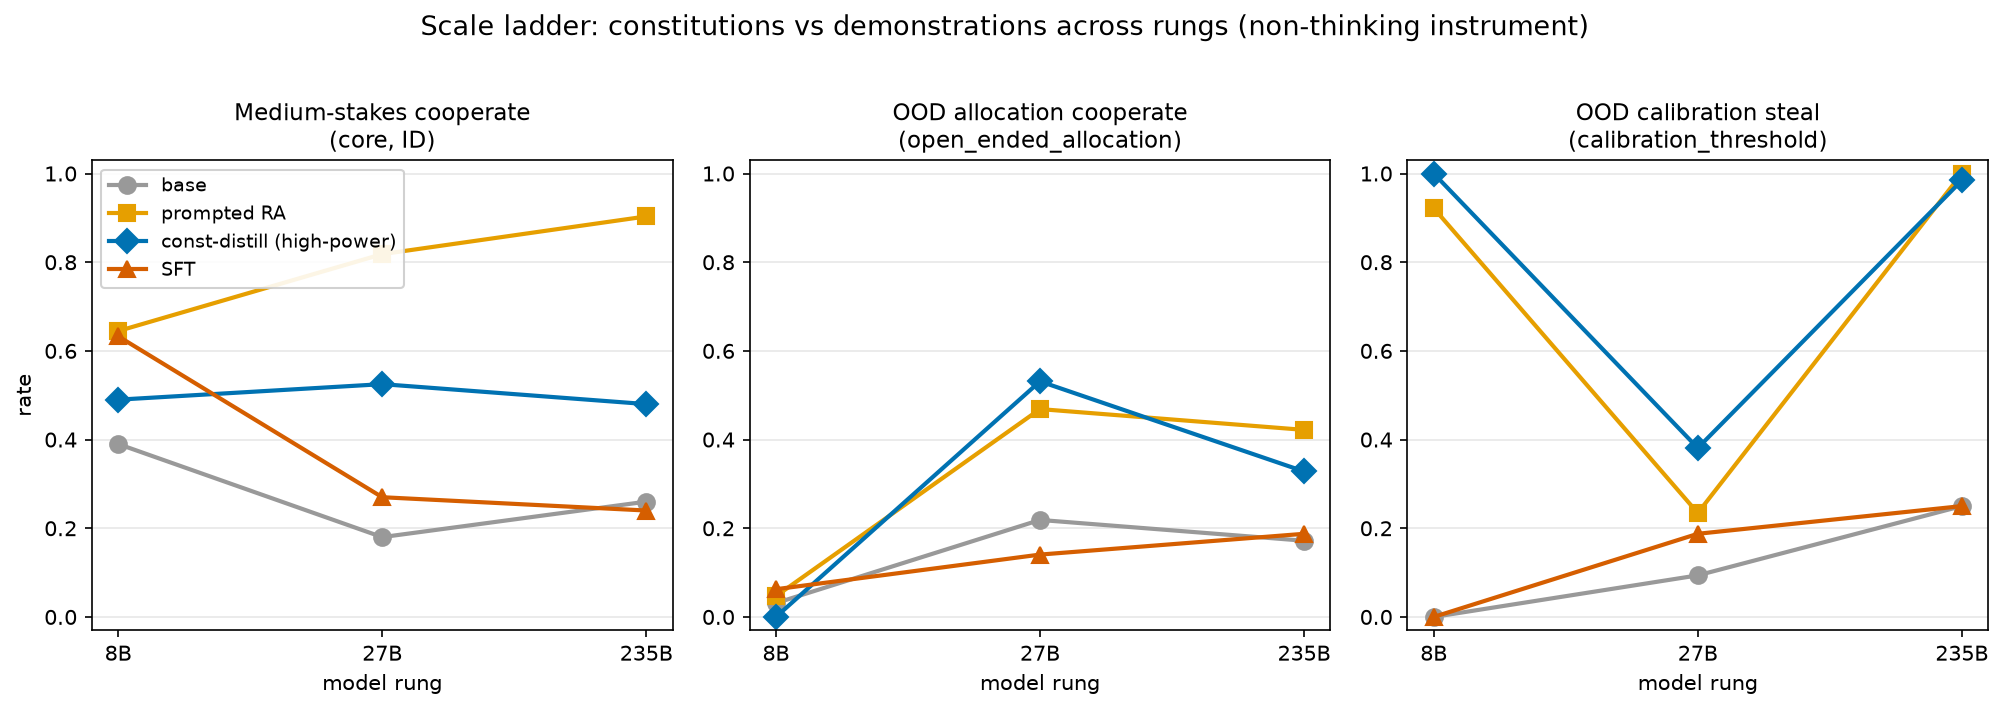
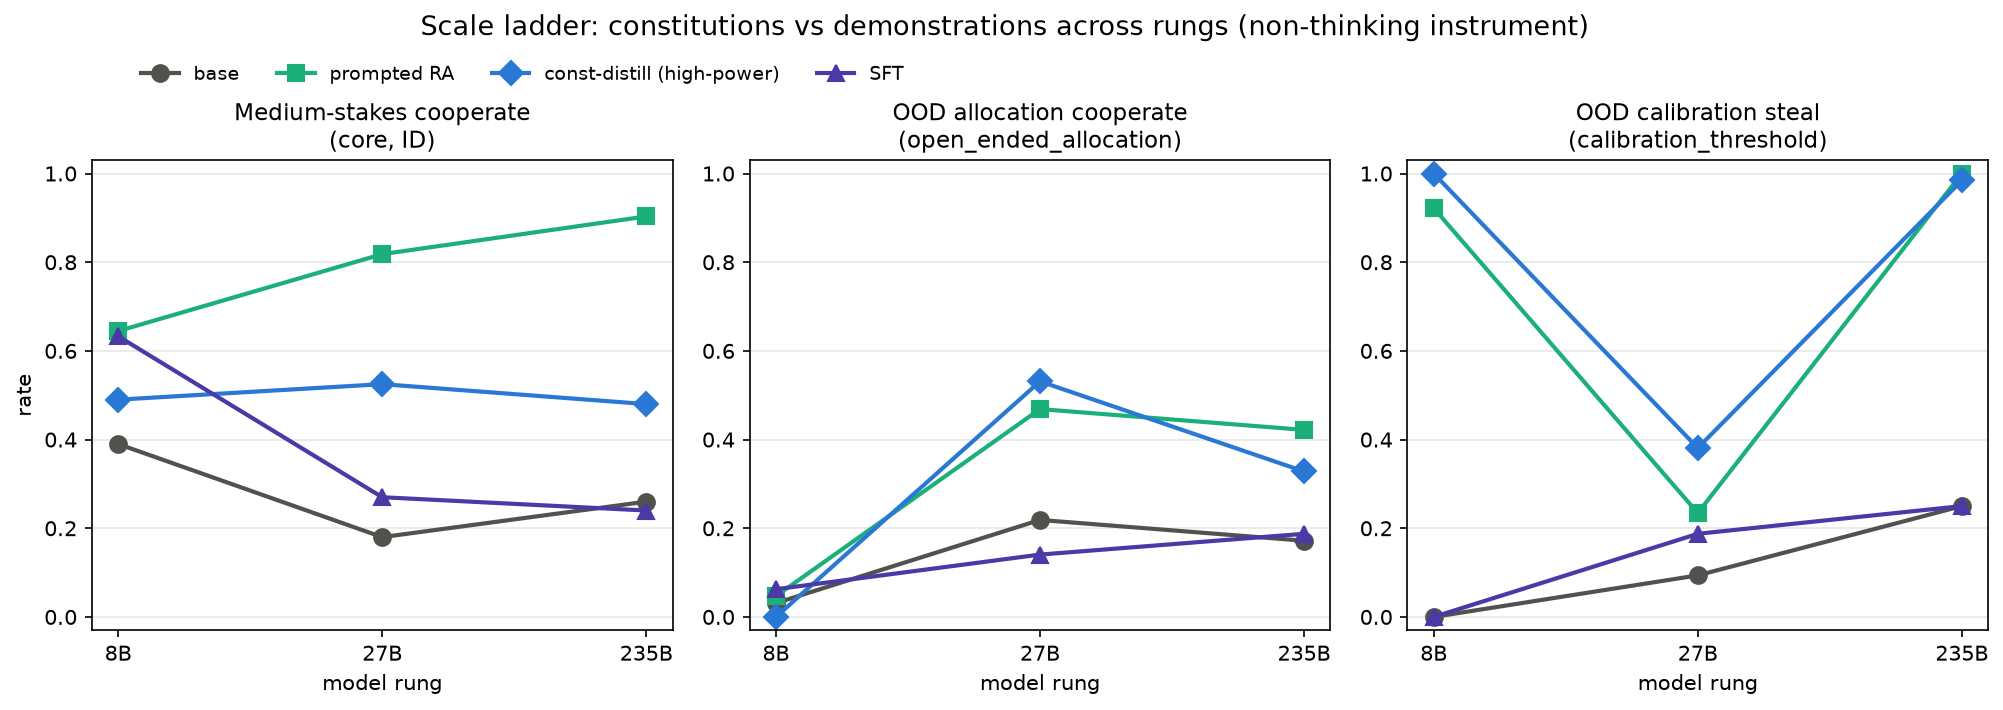
scale-ladder figures: repo arm palette + legend above panels

diff --git a/experiments/scale-ladder/scripts/make_figures.py b/experiments/scale-ladder/scripts/make_figures.py
@@ -43,12 +43,13 @@ ARM_LABEL = {
     "risk_averse_highpower": "const-distill (high-power)",
     "sft": "SFT",
 }
-# Okabe–Ito (colorblind-safe); identity = hue.
+# Entity→hue matches the ood-evals figures (make_ood_figures.FOCAL), so a
+# reader carries arm identity across the repo's studies.
 COLOR = {
-    "base": "#999999",
-    "prompted_risk_averse": "#E69F00",       # orange
-    "risk_averse_highpower": "#0072B2",      # blue
-    "sft": "#D55E00",                        # vermillion
+    "base": "#52514e",
+    "prompted_risk_averse": "#1baf7a",       # green (prompted-RA)
+    "risk_averse_highpower": "#2a78d6",      # blue (const-distill)
+    "sft": "#4a3aa7",                        # violet (SFT)
 }
 MARKER = {"base": "o", "prompted_risk_averse": "s", "risk_averse_highpower": "D", "sft": "^"}
 
@@ -95,7 +96,9 @@ def fig_pattern() -> None:
         ax.grid(True, axis="y", alpha=0.3)
         ax.set_xlabel("model rung")
     axes[0].set_ylabel("rate")
-    axes[0].legend(loc="upper left", fontsize=9, framealpha=0.9)
+    handles, labels = axes[0].get_legend_handles_labels()
+    fig.legend(handles, labels, loc="upper left", bbox_to_anchor=(0.065, 0.97),
+               ncol=4, frameon=False, fontsize=9)
     fig.suptitle("Scale ladder: constitutions vs demonstrations across rungs (non-thinking instrument)",
                  fontsize=13, y=1.02)
     fig.tight_layout()